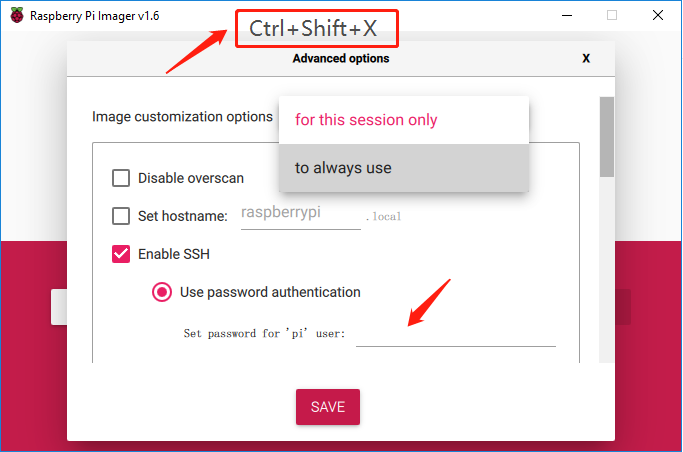
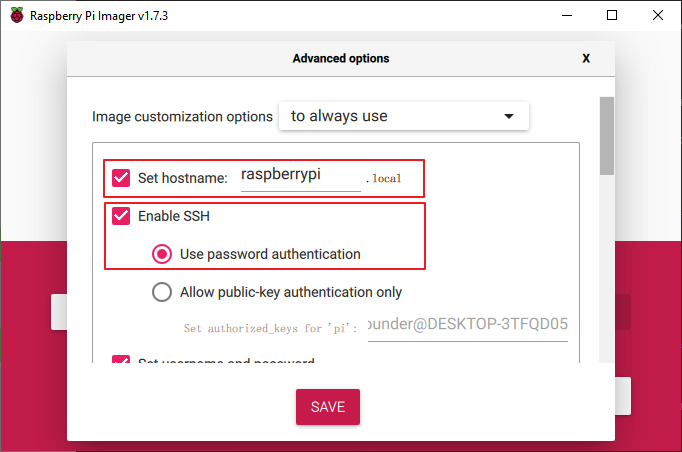
update the ssh thing

diff --git a/docs/source/python/python_start/set_up_your_raspberry_pi.rst b/docs/source/python/python_start/set_up_your_raspberry_pi.rst
@@ -34,37 +34,8 @@ Any Raspberry Pi   1 \* Power Adapter
 If You Have No Screen
 --------------------------
 
-If you don’t have a display, you can log in to the Raspberry Pi
-remotely, but before that, you need to get the IP of the Raspberry Pi.
+If you don’t have a display, you can log in to the Raspberry Pi remotely. 
 
-Get the IP Address
-^^^^^^^^^^^^^^^^^^
-
-After the Raspberry Pi is connected to WIFI, we need to get the IP
-address of it. There are many ways to know the IP address, and two of
-them are listed as follows.
-
-**1.  Checking via the router**
-
-If you have permission to log in the router(such as a home network), you
-can check the addresses assigned to Raspberry Pi on the admin interface
-of router.
-
-The default hostname of the Raspberry Pi OS is **raspberrypi**, and you
-need to find it. (If you are using ArchLinuxARM system, please find
-alarmpi.)
-
-**2. Network Segment Scanning**
-
-You can also use network scanning to look up the IP address of Raspberry
-Pi. You can apply the software, **Advanced IP scanner** and so on.
-
-Scan the IP range set, and the name of all connected devices will be
-displayed. Similarly, the default hostname of the Raspberry Pi OS is
-**raspberrypi**, if you haven't modified it.
-
-Use the SSH Remote Control
-^^^^^^^^^^^^^^^^^^^^^^^^^^
 
 We can open the Bash Shell of Raspberry Pi by applying SSH. Bash is the
 standard default shell of Linux. The Shell itself is a program written
@@ -73,93 +44,169 @@ it can help to complete most of the work needed.
 
 **For Linux or/Mac OS X Users**
 
-**Step 1**
 
-Go to **Applications**->\ **Utilities**, find the **Terminal**, and open
+1. Go to **Applications**->\ **Utilities**, find the **Terminal**, and open
 it.
 
 .. image:: img/image21.png
     :align: center
 
-**Step 2**
-
-Type in **ssh pi@ip_address** . \"pi\" is your username and \"ip_address\" is
-your IP address. For example:
-
-
+2. Check if your Raspberry Pi is on the same network by type in ``ping <hostname>.local``. 
 
 .. code-block::
 
-    ssh pi@192.168.18.197
+    ping raspberrypi.local
 
-**Step 3**
+.. image:: img/mac-ping.png
+    :width: 550
+    :align: center
+
+* If terminal prompts ``ping: cannot resolve <hostname>.local``, it is possible that the Raspberry Pi failed to connect to the network. Please check the network.
+* If you really can't ping ``<hostname>.local``, try to :ref:`get_ip`  and ``ping <IP address>`` instead. (e.g., ``ping 192.168.6.116``)
+* If multiple prompts like ``64 bytes from <IP address>: icmp_seq=0 ttl=64 time=0.464 ms`` appear, it means your computer can access the Raspberry Pi.
+
+
+
+
+3. Type in ``ssh <username>@<hostname>.local`` (or ``ssh <username>@<IP address>``).
+
+.. code-block::
+
+    ssh pi@raspberrypi.local
+
+4. The following message may appear.
+
+.. code-block::
+
+    The authenticity of host 'raspberrypi.local (192.168.6.116)' can't be established.
+    ECDSA key fingerprint is SHA256:7ggckKZ2EEgS76a557cddfxFNDOBBuzcJsgaqA/igz4.
+    Are you sure you want to continue connecting (yes/no/[fingerprint])? 
 
 Input \"yes\".
 
-.. image:: img/image22.png
+.. image:: img/mac-ssh-login.png
+    :width: 550
     :align: center
 
-**Step 4**
 
-Input the passcode and the default password is **raspberry**.
+5. Input the password you set before. (Mine is ``raspberry``.)
 
-.. image:: img/image23.png
-    :align: center
-
-**Step 5**
-
-We now get the Raspberry Pi connected and are ready to go to the next
-step.
-
-.. image:: img/image24.png
-    :align: center
+.. .. image:: img/image23.png
+..     :align: center
 
 .. note::
     When you input the password, the characters do not display on
     window accordingly, which is normal. What you need is to input the
     correct password.
 
+
+
+6. We now get the Raspberry Pi connected and are ready to go to the next
+step.
+
+.. image:: img/mac-ssh-terminal.png
+    :width: 550
+    :align: center
+
+
+
 **For Windows Users**
 
-If you're a Windows user, you can use SSH with the application of some
-software. Here, we recommend **PuTTY**.
+If you're a Windows user, you can use Windows PowerShell.
 
-**Step 1**
+1. Press the ``windows`` + ``R`` shortcut key in your keyboard to open the **Run** program. Then type **powershell** in the input box. 
 
-Download PuTTY.
-
-**Step 2**
-
-Open PuTTY and click **Session** on the left tree-alike structure. Enter
-the IP address of the RPi in the text box under **Host Name (or IP
-address)** and **22** under **Port** (by default it is 22).
-
-.. image:: img/image25.png
+.. image:: img/sp221221_135900.png
     :align: center
 
-**Step 3**
+2. Check if your Raspberry Pi is on the same network by type in ``ping <hostname>.local``. 
 
-Click **Open**. Note that when you first log in to the Raspberry Pi with
-the IP address, there prompts a security reminder. Just click **Yes**.
+.. code-block::
 
-**Step 4**
+    ping raspberrypi.local
 
-When the PuTTY window prompts \"**login as:**\", type in
-\"**pi**\" (the user name of the RPi), and **password:** \"raspberry\"
-(the default one, if you haven't changed it).
+.. image:: img/sp221221_145225.png
+    :width: 550
+    :align: center
+
+* If terminal prompts ``Ping request could not find host <hostname>.local``, it is possible that the Raspberry Pi failed to connect to the network.lease check the network.
+* If you really can't ping ``<hostname>.local``, try to :ref:`get_ip`  and ``ping <IP address>`` instead. (e.g., ``ping 192.168.6.116``)
+* If multiple prompts like "Reply from <IP address>: bytes=32 time<1ms TTL=64" appear, it means your computer can access the Raspberry Pi.
+
+
+
+    
+3. Type in ``ssh <username>@<hostname>.local`` (or ``ssh <username>@<IP address>``).
+
+.. code-block::
+
+    ssh pi@raspberrypi.local
+
+
+4. The following message may appear.
+
+.. code-block::
+
+    The authenticity of host 'raspberrypi.local (192.168.6.116)' can't be established.
+    ECDSA key fingerprint is SHA256:7ggckKZ2EEgS76a557cddfxFNDOBBuzcJsgaqA/igz4.
+    Are you sure you want to continue connecting (yes/no/[fingerprint])? 
+
+Input \"yes\".
+
+5. Input the password you set before. (Mine is ``raspberry``.)
 
 .. note::
+    When you input the password, the characters do not display on
+    window accordingly, which is normal. What you need is to input the
+    correct password.
 
-    When you input the password, the characters do not display on window accordingly, which is normal. What you need is to input the correct password.
-    
-    If inactive appears next to PuTTY, it means that the connection has been broken and needs to be reconnected.
-    
-.. image:: img/image26.png
+6. We now get the Raspberry Pi connected and are ready to go to the next
+step.
+
+.. image:: img/sp221221_140628.png
+    :width: 550
     :align: center
 
-**Step 5**
 
-Here, we get the Raspberry Pi connected and it is time to conduct the next steps.
+.. you can use SSH with the application of some
+.. software. Here, we recommend **PuTTY**.
+
+.. **Step 1**
+
+.. Download PuTTY.
+
+.. **Step 2**
+
+.. Open PuTTY and click **Session** on the left tree-alike structure. Enter
+.. the IP address of the RPi in the text box under **Host Name (or IP
+.. address)** and **22** under **Port** (by default it is 22).
+
+.. .. image:: img/image25.png
+..     :align: center
+
+.. **Step 3**
+
+.. Click **Open**. Note that when you first log in to the Raspberry Pi with
+.. the IP address, there prompts a security reminder. Just click **Yes**.
+
+.. **Step 4**
+
+.. When the PuTTY window prompts \"**login as:**\", type in
+.. \"**pi**\" (the user name of the RPi), and **password:** \"raspberry\"
+.. (the default one, if you haven't changed it).
+
+.. .. note::
+
+..     When you input the password, the characters do not display on window accordingly, which is normal. What you need is to input the correct password.
+    
+..     If inactive appears next to PuTTY, it means that the connection has been broken and needs to be reconnected.
+    
+.. .. image:: img/image26.png
+..     :align: center
+
+.. **Step 5**
+
+.. Here, we get the Raspberry Pi connected and it is time to conduct the next steps.
 
 
 

diff --git a/docs/source/python/python_start/installing_the_os.rst b/docs/source/python/python_start/installing_the_os.rst
@@ -87,21 +87,29 @@ Select the SD card you are using.
 
 **Step 6**
 
-Press **Ctrl+Shift+X** or click the **setting** button to open the **Advanced options** page to enable
-SSH and configure wifi, these 2 items must be set, the others depend on
-your choice . You can choose to always use this image customization
-options.
+Press **Ctrl+Shift+X** or click the **setting** button to open the **Advanced options** page to **Enable SSH** and **Configure Wifi**, these 2 items must be set, the others depend on
+your choice.
+
+* You can do what I did and set the **hostname** to ``raspberrypi``. This is the default hostname commonly used by Raspberry Pi.
+
+* You can choose ``to always use`` this image customization options. This will make it much easier to burn the image next time.
+
+* ``Enable SSH`` and select ``Use password authentication``.
 
 .. image:: img/image15.png
     :align: center
 
-Then scroll down to complete the wifi configuration and click **SAVE**.
+* Then scroll down to complete the **Username** and **Password**. You can follow the tradition like me and set them as ``pi`` and ``raspberry``.
+
+.. image:: img/image15.5.png
+    :align: center
+
+* Then scroll down to **Configure Wireless LAN Configuration**.
 
 .. note::
 
     **wifi country** should be set the two-letter `ISO/IEC alpha2 code <https://en.wikipedia.org/wiki/ISO_3166-1_alpha-2#Officially_assigned_code_elements>`_ for
-    the country in which you are using your Raspberry Pi, please refer to
-    the following link: https://en.wikipedia.org/wiki/ISO_3166-1_alpha-2#Officially_assigned_code_elements
+    the country in which you are using your Raspberry Pi.
 
 .. image:: img/image16.png
     :align: center

diff --git a/docs/source/appendix/get_ip_address.rst b/docs/source/appendix/get_ip_address.rst
@@ -1,0 +1,26 @@
+.. _get_ip:
+
+Get the IP address
+==================
+
+There are many ways to know the IP address, and two of
+them are listed as follows.
+
+**1.  Checking via the router**
+
+If you have permission to log in the router(such as a home network), you
+can check the addresses assigned to Raspberry Pi on the admin interface
+of router.
+
+The default hostname of the Raspberry Pi OS is **raspberrypi**, and you
+need to find it. (If you are using ArchLinuxARM system, please find
+alarmpi.)
+
+**2. Network Segment Scanning**
+
+You can also use network scanning to look up the IP address of Raspberry
+Pi. You can apply the software, **Advanced IP scanner** and so on.
+
+Scan the IP range set, and the name of all connected devices will be
+displayed. Similarly, the default hostname of the Raspberry Pi OS is
+**raspberrypi**, if you haven't modified it.

diff --git a/docs/source/appendix/remote_desktop.rst b/docs/source/appendix/remote_desktop.rst
@@ -70,7 +70,7 @@ Then select \"**New connection**\".
 
 **Step 3**
 
-Input IP address of Raspberry Pi and any **Name**.
+Input ``<Hostname>.local`` or ``<IP address>`` of Raspberry Pi and any **Name**.
 
 .. image:: img/image291.png
    :align: center
@@ -150,7 +150,7 @@ difference between the two. The next example is Windows remote desktop.
 **Step 2**
 
 Type in \"**mstsc**\" in Run (WIN+R) to open the Remote Desktop
-Connection, and input the IP address of Raspberry Pi, then click on
+Connection, and input the ``<Hostname>.local`` or ``<IP address>`` of Raspberry Pi, then click on
 \"Connect\".
 
 .. image:: img/image296.png

diff --git a/docs/source/python/control_by_app.rst b/docs/source/python/control_by_app.rst
@@ -61,7 +61,7 @@ Let's customize a PiCar-X controller using this app.
 
     .. image:: img/app3.PNG
 
-    In the **A** area, add an **Speedometer         ** widget to display the car's speed.
+    In the **A** area, add an **Speedometer** widget to display the car's speed.
 
     .. image:: img/app4.PNG
     

diff --git a/docs/source/about_robot_hat.rst b/docs/source/about_robot_hat.rst
@@ -18,7 +18,6 @@ About Robot HAT
 
 **Digital Pin**
     * 4-channel digital pins, D0-D3.
-    * API: :ref:`class_pin`
 
 **Battery Indicator**
     * Two LEDs light up when the voltage is higher than 7.8V.

diff --git a/docs/source/appendix/appendix.rst b/docs/source/appendix/appendix.rst
@@ -5,6 +5,7 @@ Appendix
 .. toctree::
     
     i2c_configuration
+    get_ip_address
     remote_desktop
     battery
 
